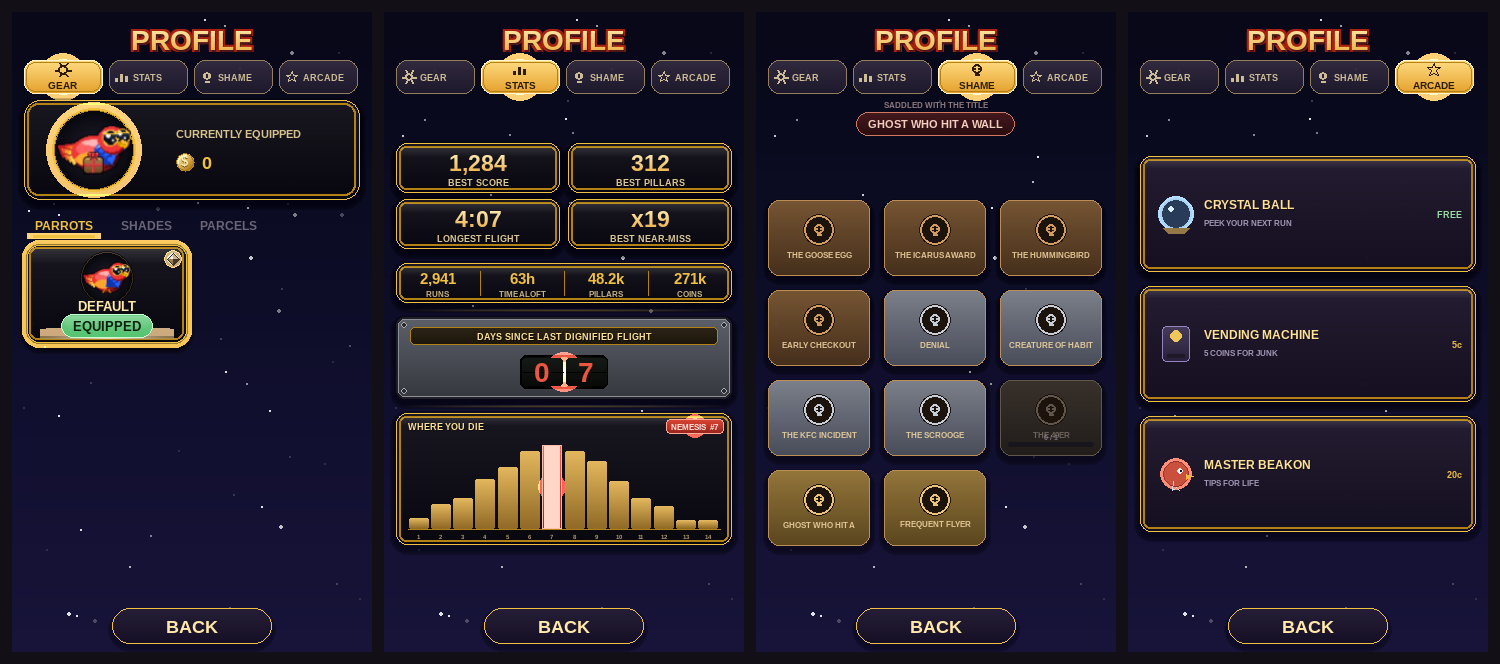
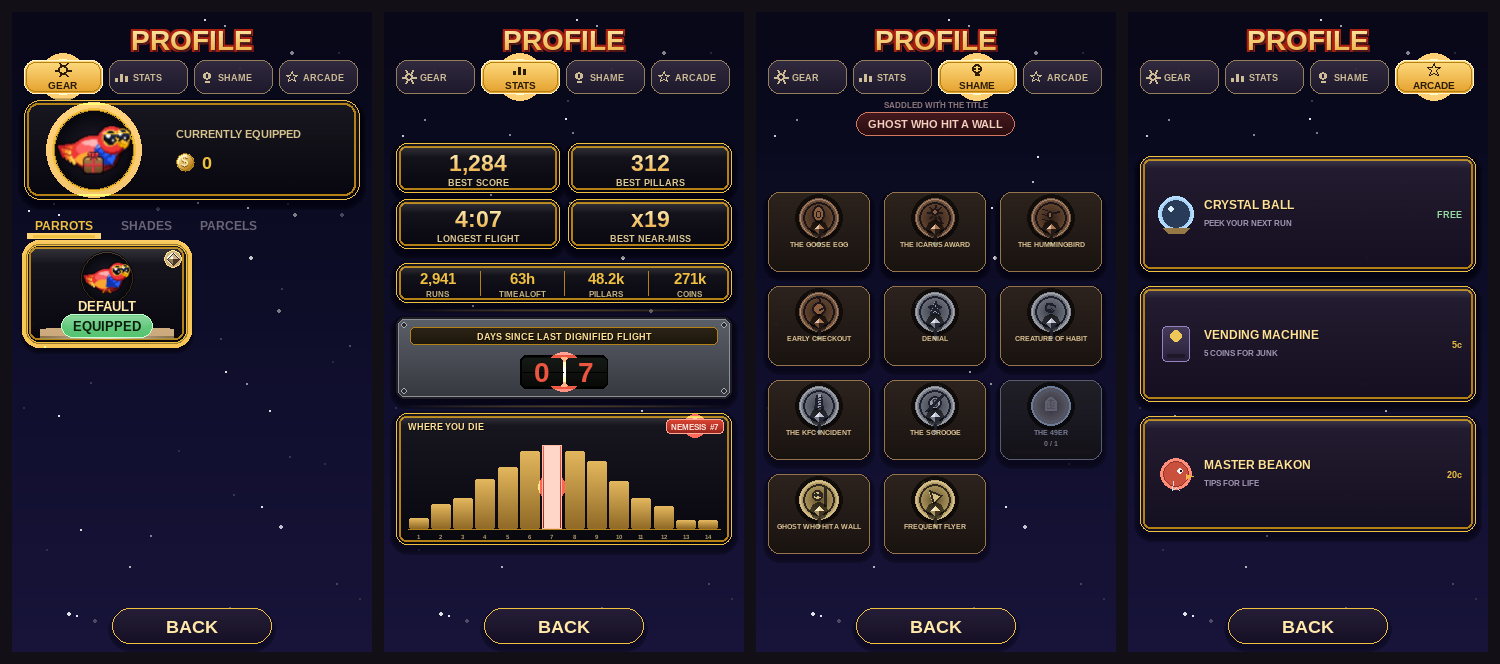
Profile SHAME: real tarnished badge art + per-badge glyphs
Ports the locked Wall of Shame badge (gem-frame + recessed channel + value-
laddered tiers + demeaning glyph library) from the design generator into
game/profile_art.py (runtime, web-bundle-safe). SHAME cells now draw the real
badge per shame.Badge with its mapped glyph; locked badges show the dormant
cool-rim silhouette + progress bar. Replaces the placeholder skull.

Claude-Session: https://claude.ai/code/session_01AuwSUZ2K1MV3qNcDYtHTKX

Changed region(s): [[0.4907, 0.2711, 0.736, 0.8434]]

diff --git a/game/profile_art.py b/game/profile_art.py
@@ -1,0 +1,199 @@
+"""Runtime procedural art for the Profile's witty sections — ported from the
+locked design-loop generators (tools/) into game/ so the web bundle ships it.
+
+Currently: the Wall of Shame badge (V5 tarnished gem-frame + V1 recessed
+channel), its demeaning glyph library, and the three-tier value ladder
+(bronze < silver < gold by whole-disc value, colourblind-safe). The crystal
+ball / vending machine / Beakon curio art lands here as those get wired in.
+"""
+from __future__ import annotations
+
+import math
+
+import pygame
+
+from game.hud import _font, _GOLD_BRIGHT, _GOLD_PALE, _GOLD_DEEP
+from game.draw import NEAR_BLACK, WHITE, lerp_color, rounded_rect
+from game.store import _vgrad_panel
+
+# Tier reads by WHOLE-DISC VALUE first: bronze ~66 / silver ~100 / gold ~135
+# luma, ≥25 apart so it survives grayscale + a squint. The gem stays the
+# brightest member of each tier so the one bold base-gem cue pops on its disc.
+_TARNISH = {
+    "bronze": {"rim": (120, 84, 58), "face": (84, 58, 40), "deep": (44, 30, 21),
+               "gem": (172, 116, 74), "patina": (92, 116, 92)},
+    "silver": {"rim": (130, 134, 144), "face": (94, 98, 110), "deep": (50, 54, 64),
+               "gem": (186, 192, 206), "patina": (96, 116, 120)},
+    "gold": {"rim": (196, 172, 112), "face": (166, 142, 86), "deep": (88, 72, 36),
+             "gem": (240, 220, 158), "patina": (118, 120, 86)},
+}
+
+_LOCK_FACE = (66, 64, 76)
+_LOCK_GLYPH_INK = (96, 96, 110)
+_LOCK_GLYPH_DIM = (78, 78, 92)
+_LOCK_RIM = (108, 122, 150)
+_LOCK_RIM_IN = (78, 88, 112)
+
+
+def _glyph(surf, cx, cy, r, kind, ink, dim):
+    """The demeaning icons — high-contrast ink (near the disc's darkest) over a
+    brighter fill, so the glyph (the joke) is the strongest contrast in the disc."""
+    lw = max(2, int(r) // 8)
+    if kind == "egg":
+        pygame.draw.ellipse(surf, dim, (cx - r * 0.6, cy - r * 0.78, r * 1.2, r * 1.56))
+        pygame.draw.ellipse(surf, ink, (cx - r * 0.6, cy - r * 0.78, r * 1.2, r * 1.56), lw)
+        pygame.draw.ellipse(surf, ink, (cx - r * 0.24, cy - r * 0.34, r * 0.48, r * 0.68),
+                            max(1, lw - 1))
+    elif kind == "icarus":
+        for a in range(8):
+            ang = a * math.pi / 4
+            pygame.draw.line(surf, ink,
+                             (cx + math.cos(ang) * r * 0.42, cy - r * 0.2 + math.sin(ang) * r * 0.42),
+                             (cx + math.cos(ang) * r * 0.66, cy - r * 0.2 + math.sin(ang) * r * 0.66), lw)
+        pygame.draw.circle(surf, dim, (int(cx), int(cy - r * 0.2)), int(r * 0.42))
+        pygame.draw.circle(surf, ink, (int(cx), int(cy - r * 0.2)), int(r * 0.42), lw)
+        fx, fy = cx + r * 0.5, cy + r * 0.55
+        pygame.draw.line(surf, ink, (fx - r * 0.18, fy - r * 0.22), (fx + r * 0.12, fy + r * 0.2), lw)
+    elif kind == "humming":
+        pygame.draw.ellipse(surf, dim, (cx - r * 0.28, cy - r * 0.3, r * 0.56, r * 0.7))
+        pygame.draw.ellipse(surf, ink, (cx - r * 0.28, cy - r * 0.3, r * 0.56, r * 0.7), lw)
+        pygame.draw.line(surf, ink, (cx + r * 0.2, cy - r * 0.2), (cx + r * 0.7, cy - r * 0.34), lw)
+        for s in range(3):
+            yy = cy - r * 0.45 + s * r * 0.42
+            pygame.draw.line(surf, ink, (cx - r * 0.7, yy), (cx - r * 0.28, yy + r * 0.08),
+                             max(1, lw - 1))
+    elif kind == "stopwatch":
+        pygame.draw.circle(surf, dim, (int(cx), int(cy + r * 0.08)), int(r * 0.62))
+        pygame.draw.circle(surf, ink, (int(cx), int(cy + r * 0.08)), int(r * 0.62), lw)
+        pygame.draw.line(surf, ink, (cx, cy - r * 0.62), (cx, cy - r * 0.82), lw)
+        pygame.draw.rect(surf, ink, (cx - r * 0.16, cy - r * 0.9, r * 0.32, r * 0.12))
+        ang = -math.pi / 2 + 2 * math.pi * (2 / 12)
+        pygame.draw.line(surf, ink, (cx, cy + r * 0.08),
+                         (cx + math.cos(ang) * r * 0.42, cy + r * 0.08 + math.sin(ang) * r * 0.42), lw)
+    elif kind == "denial":
+        pts = []
+        for i in range(10):
+            ang = -math.pi / 2 + i * math.pi / 5
+            rr = r * 0.62 if i % 2 == 0 else r * 0.26
+            pts.append((cx + math.cos(ang) * rr, cy + math.sin(ang) * rr))
+        pygame.draw.polygon(surf, dim, pts)
+        pygame.draw.polygon(surf, ink, pts, lw)
+        d = r * 0.34
+        pygame.draw.line(surf, ink, (cx - d, cy - d), (cx + d, cy + d), lw + 1)
+        pygame.draw.line(surf, ink, (cx + d, cy - d), (cx - d, cy + d), lw + 1)
+    elif kind == "loop":
+        rect = pygame.Rect(cx - r * 0.5, cy - r * 0.5, r, r)
+        pygame.draw.arc(surf, ink, rect, math.radians(40), math.radians(330), lw)
+        ax, ay = cx + math.cos(math.radians(40)) * r * 0.5, cy - math.sin(math.radians(40)) * r * 0.5
+        pygame.draw.polygon(surf, ink, [(ax, ay), (ax - r * 0.2, ay - r * 0.05),
+                                        (ax - r * 0.02, ay + r * 0.22)])
+    elif kind == "fry":
+        pygame.draw.line(surf, ink, (cx - r * 0.32, cy + r * 0.6), (cx - r * 0.12, cy - r * 0.66), lw + 1)
+        pygame.draw.line(surf, ink, (cx + r * 0.32, cy + r * 0.6), (cx + r * 0.12, cy - r * 0.66), lw + 1)
+        pygame.draw.line(surf, dim, (cx, cy + r * 0.6), (cx, cy - r * 0.7), lw + 1)
+        for s in range(-2, 3):
+            yy = cy + s * r * 0.22
+            pygame.draw.line(surf, ink, (cx - r * 0.28, yy + r * 0.05), (cx + r * 0.28, yy - r * 0.05),
+                             max(1, lw - 1))
+    elif kind == "scrooge":
+        pygame.draw.circle(surf, dim, (int(cx), int(cy)), int(r * 0.64))
+        pygame.draw.circle(surf, ink, (int(cx), int(cy)), int(r * 0.64), lw)
+        sf = _font(max(10, int(r * 0.95)), True)
+        surf.blit(sf.render("$", True, ink), sf.render("$", True, ink).get_rect(center=(cx, cy)))
+        pygame.draw.line(surf, ink, (cx - r * 0.72, cy + r * 0.72), (cx + r * 0.72, cy - r * 0.72), lw + 2)
+    elif kind == "tomb":
+        rect = pygame.Rect(cx - r * 0.5, cy - r * 0.55, r * 1.0, r * 1.2)
+        pygame.draw.rect(surf, dim, rect, border_top_left_radius=int(r * 0.5),
+                         border_top_right_radius=int(r * 0.5))
+        pygame.draw.rect(surf, ink, rect, lw, border_top_left_radius=int(r * 0.5),
+                         border_top_right_radius=int(r * 0.5))
+        nf = _font(max(10, int(r * 0.62)), True)
+        surf.blit(nf.render("49", True, ink), nf.render("49", True, ink).get_rect(center=(cx, cy - r * 0.02)))
+    elif kind == "ghostwall":
+        pygame.draw.line(surf, ink, (cx + r * 0.6, cy - r * 0.8), (cx + r * 0.6, cy + r * 0.8), lw + 1)
+        gx = cx - r * 0.05
+        pygame.draw.ellipse(surf, dim, (gx - r * 0.5, cy - r * 0.55, r * 0.95, r * 1.0))
+        pygame.draw.ellipse(surf, ink, (gx - r * 0.5, cy - r * 0.55, r * 0.95, r * 1.0), lw)
+        pygame.draw.circle(surf, ink, (int(gx - r * 0.16), int(cy - r * 0.1)), max(1, lw))
+        pygame.draw.circle(surf, ink, (int(gx + r * 0.18), int(cy - r * 0.1)), max(1, lw))
+    elif kind == "oneway":
+        tri = [(cx - r * 0.5, cy - r * 0.55), (cx + r * 0.55, cy - r * 0.1), (cx - r * 0.1, cy + r * 0.55)]
+        pygame.draw.polygon(surf, dim, tri)
+        pygame.draw.polygon(surf, ink, tri, lw)
+
+
+def _disc(surf, cx, cy, r, tier, locked):
+    t = _TARNISH[tier]
+    seat = pygame.Surface((r * 2 + 10, r * 2 + 10), pygame.SRCALPHA)
+    pygame.draw.circle(seat, (0, 0, 0, 150), (r + 5, r + 5), r + 4)
+    surf.blit(seat, (cx - r - 5, cy - r - 5))
+    face = _LOCK_FACE if locked else t["face"]
+    deep = lerp_color(_LOCK_FACE, NEAR_BLACK, 0.4) if locked else t["deep"]
+    rim = lerp_color(_LOCK_FACE, WHITE, 0.2) if locked else t["rim"]
+    for i in range(r, 0, -1):
+        f = i / r
+        c = lerp_color(lerp_color(rim, face, 0.4), deep, (1 - f) ** 1.3)
+        pygame.draw.circle(surf, c, (cx, cy), i)
+    return t
+
+
+def _tier_gem(surf, cx, cy, r, t):
+    g = t["gem"]
+    gr = max(5, int(r / 3.2))
+    gy = cy + int(r * 0.58)
+    seat = pygame.Surface((gr * 2 + 8, gr * 2 + 8), pygame.SRCALPHA)
+    pygame.draw.circle(seat, (0, 0, 0, 150), (gr + 4, gr + 4), gr + 3)
+    surf.blit(seat, (cx - gr - 4, gy - gr - 4))
+    top, bot, left, right, ctr = (cx, gy - gr), (cx, gy + gr), (cx - gr, gy), (cx + gr, gy), (cx, gy)
+    hi = lerp_color(g, WHITE, 0.55)
+    sh = lerp_color(g, t["deep"], 0.5)
+    dk = lerp_color(t["deep"], NEAR_BLACK, 0.3)
+    pygame.draw.polygon(surf, hi, [top, left, ctr])
+    pygame.draw.polygon(surf, g, [top, right, ctr])
+    pygame.draw.polygon(surf, sh, [left, bot, ctr])
+    pygame.draw.polygon(surf, dk, [right, bot, ctr])
+    pygame.draw.polygon(surf, lerp_color(t["deep"], NEAR_BLACK, 0.45), [top, right, bot, left], width=1)
+
+
+def _drip(surf, cx, cy, ink, dim):
+    pygame.draw.line(surf, ink, (cx, cy), (cx, cy + 6), 3)
+    pygame.draw.circle(surf, dim, (int(cx), int(cy + 8)), 3)
+    pygame.draw.circle(surf, ink, (int(cx), int(cy + 8)), 3, 1)
+
+
+def _rim_patina(surf, cx, cy, r, col, seed):
+    state = seed & 0xFFFFFFFF
+
+    def nxt():
+        nonlocal state
+        state = (1103515245 * state + 12345) & 0x7FFFFFFF
+        return state / 0x7FFFFFFF
+    for _ in range(5):
+        a = nxt() * 2 * math.pi
+        d = r * (0.78 + nxt() * 0.16)
+        br = max(2, int(r * (0.10 + nxt() * 0.10)))
+        blob = pygame.Surface((br * 2, br * 2), pygame.SRCALPHA)
+        pygame.draw.circle(blob, (*col, 45), (br, br), br)
+        surf.blit(blob, (cx + math.cos(a) * d - br, cy + math.sin(a) * d - br))
+
+
+def shame_badge(surf, cx, cy, r, tier, kind, locked):
+    """The Wall of Shame badge: tarnished gem-frame disc, recessed engraved
+    channel, demeaning glyph, and the bold base-gem tier cue. Locked = a dormant
+    cool-rim silhouette (the caller draws any progress bar)."""
+    t = _disc(surf, cx, cy, r, tier, locked)
+    if locked:
+        _glyph(surf, cx, cy - 2, r * 0.6, kind, _LOCK_GLYPH_INK, _LOCK_GLYPH_DIM)
+        pygame.draw.circle(surf, _LOCK_RIM, (cx, cy), r, 2)
+        pygame.draw.circle(surf, _LOCK_RIM_IN, (cx, cy), int(r * 0.84), 1)
+        return
+    ink = lerp_color(t["deep"], NEAR_BLACK, 0.55)
+    glyph_dim = lerp_color(t["gem"], t["face"], 0.35)
+    _rim_patina(surf, cx, cy, r, t["patina"], seed=hash(kind) & 0xFFFF)
+    pygame.draw.circle(surf, ink, (cx, cy), int(r * 0.84), 2)
+    pygame.draw.circle(surf, lerp_color(t["rim"], WHITE, 0.25), (cx, cy), int(r * 0.84) + 2, 1)
+    _glyph(surf, cx, cy - 3, r * 0.58, kind, ink, glyph_dim)
+    pygame.draw.circle(surf, t["rim"], (cx, cy), r, 3)
+    pygame.draw.circle(surf, lerp_color(t["rim"], WHITE, 0.3), (cx, cy), r - 1, 1)
+    _tier_gem(surf, cx, cy, r, t)
+    _drip(surf, cx, cy + r - 2, ink, t["patina"])

diff --git a/game/profile_sections.py b/game/profile_sections.py
@@ -26,6 +26,7 @@ from game.store import (
 )
 from game import profile_stats as ps
 from game import shame as shame_mod
+from game import profile_art
 
 # ── shared layout contract (matches the locked mock) ─────────────────────────
 SIDE = 12
@@ -360,43 +361,41 @@ def draw_stats(surf, t, stats):
 
 # ── SHAME ────────────────────────────────────────────────────────────────────
 
-_TIER_TONE = {
-    "bronze": ((120, 86, 52), (70, 48, 28), (210, 156, 92)),
-    "silver": ((126, 130, 140), (74, 78, 90), (200, 206, 216)),
-    "gold": ((150, 120, 60), (92, 70, 30), (235, 196, 120)),
+# shame badge id -> glyph kind in profile_art._glyph
+_GLYPH_FOR = {
+    "goose_egg": "egg", "icarus": "icarus", "hummingbird": "humming",
+    "early_checkout": "stopwatch", "denial": "denial", "habit": "loop",
+    "kfc_incident": "fry", "scrooge": "scrooge", "the_49er": "tomb",
+    "ghost_wall": "ghostwall", "frequent_flyer": "oneway",
 }
 
 
 def _badge_cell(surf, rect, b, stats):
     earned = b.earned(stats)
-    if earned:
-        top, bot, metal = _TIER_TONE.get(b.tier, _TIER_TONE["bronze"])
-    else:
-        top, bot, metal = (58, 50, 44), (34, 30, 26), (96, 86, 76)
+    top, bot = ((46, 36, 30), (26, 20, 16)) if earned else ((34, 32, 40), (20, 18, 24))
     _drop_shadow(surf, rect, 11, blur=5, alpha=110)
     surf.blit(_vgrad_panel(rect.w, rect.h, 11, top, bot, 252), rect.topleft)
-    rim = (188, 142, 86) if earned else (96, 86, 76)
-    pygame.draw.rect(surf, rim, rect, width=1, border_radius=11)
-    cy = rect.y + 30
-    pygame.draw.circle(surf, (28, 20, 12), (rect.centerx, cy), 16)
-    pygame.draw.circle(surf, metal, (rect.centerx, cy), 15, 2)
-    _mini_glyph(surf, 2, rect.centerx, cy, metal, scale=1.0)
+    pygame.draw.rect(surf, (150, 116, 78) if earned else (88, 92, 110), rect,
+                     width=1, border_radius=11)
+    profile_art.shame_badge(surf, rect.centerx, rect.y + 26, 20, b.tier,
+                            _GLYPH_FOR.get(b.id, "denial"), not earned)
     name = b.name.upper()
-    while _font(8, True).size(name)[0] > rect.w - 8 and " " in name:
+    f = _font(7, True)
+    while f.size(name)[0] > rect.w - 6 and " " in name:
         name = name.rsplit(" ", 1)[0]
-    lc = (236, 208, 158) if earned else (140, 130, 120)
-    _cap(surf, rect.centerx, rect.y + 54, name, size=8, col=lc,
-         alpha=235 if earned else 175)
+    lc = (236, 208, 158) if earned else (152, 162, 186)
+    _cap(surf, rect.centerx, rect.y + 52, name, size=7, col=lc,
+         alpha=235 if earned else 190)
     if earned:
         return
     cur, tgt = b.progress(stats)
-    bar = pygame.Rect(rect.x + 8, rect.bottom - 14, rect.w - 16, 5)
-    rounded_rect(surf, bar, 2, (24, 22, 28))
+    bar = pygame.Rect(rect.x + 10, rect.bottom - 11, rect.w - 20, 5)
+    rounded_rect(surf, bar, 2, (22, 20, 26))
     frac = 0 if tgt <= 0 else max(0.0, min(1.0, cur / tgt))
     if frac > 0:
-        fill = pygame.Rect(bar.x, bar.y, max(2, int(bar.w * frac)), bar.h)
-        rounded_rect(surf, fill, 2, _GOLD_DEEP)
-    _cap(surf, rect.centerx, bar.y - 5, f"{cur} / {tgt}", size=7,
+        rounded_rect(surf, pygame.Rect(bar.x, bar.y, max(2, int(bar.w * frac)),
+                                       bar.h), 2, _GOLD_DEEP)
+    _cap(surf, rect.centerx, bar.y - 6, f"{cur} / {tgt}", size=7,
          col=(150, 142, 158), alpha=200)
 
 
@@ -418,7 +417,7 @@ def draw_shame(surf, t, stats):
     rows = (len(badges) + cols - 1) // cols
     gx = GAP
     cw2 = (W - 2 * SIDE - gx * (cols - 1)) // cols
-    ch = 76
+    ch = 80
     grid_h = rows * ch + GAP * (rows - 1)
     top0 = chip.bottom + 12
     grid_top = top0 + max(0, (COL_BOT - top0 - grid_h) // 2)
